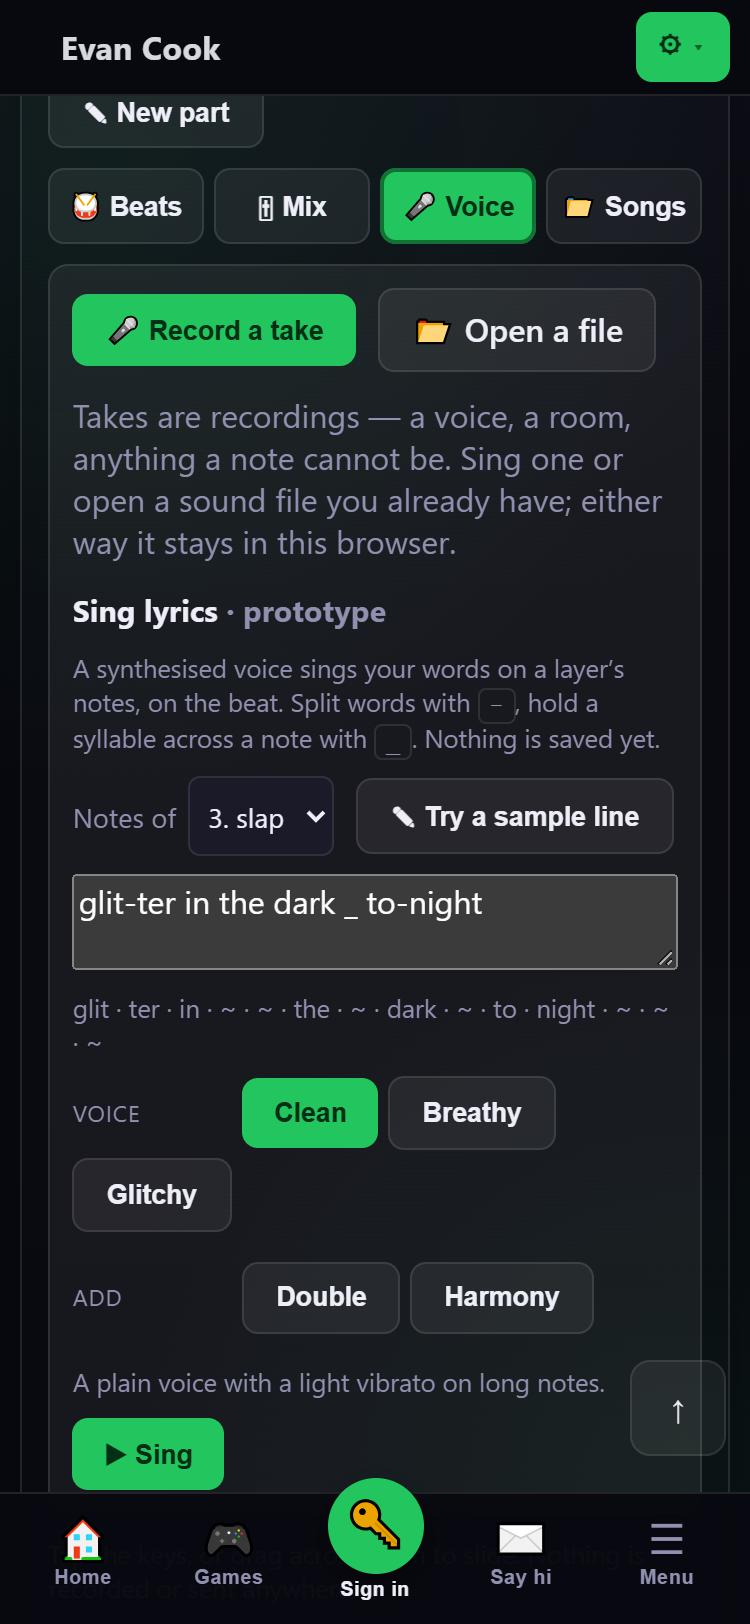
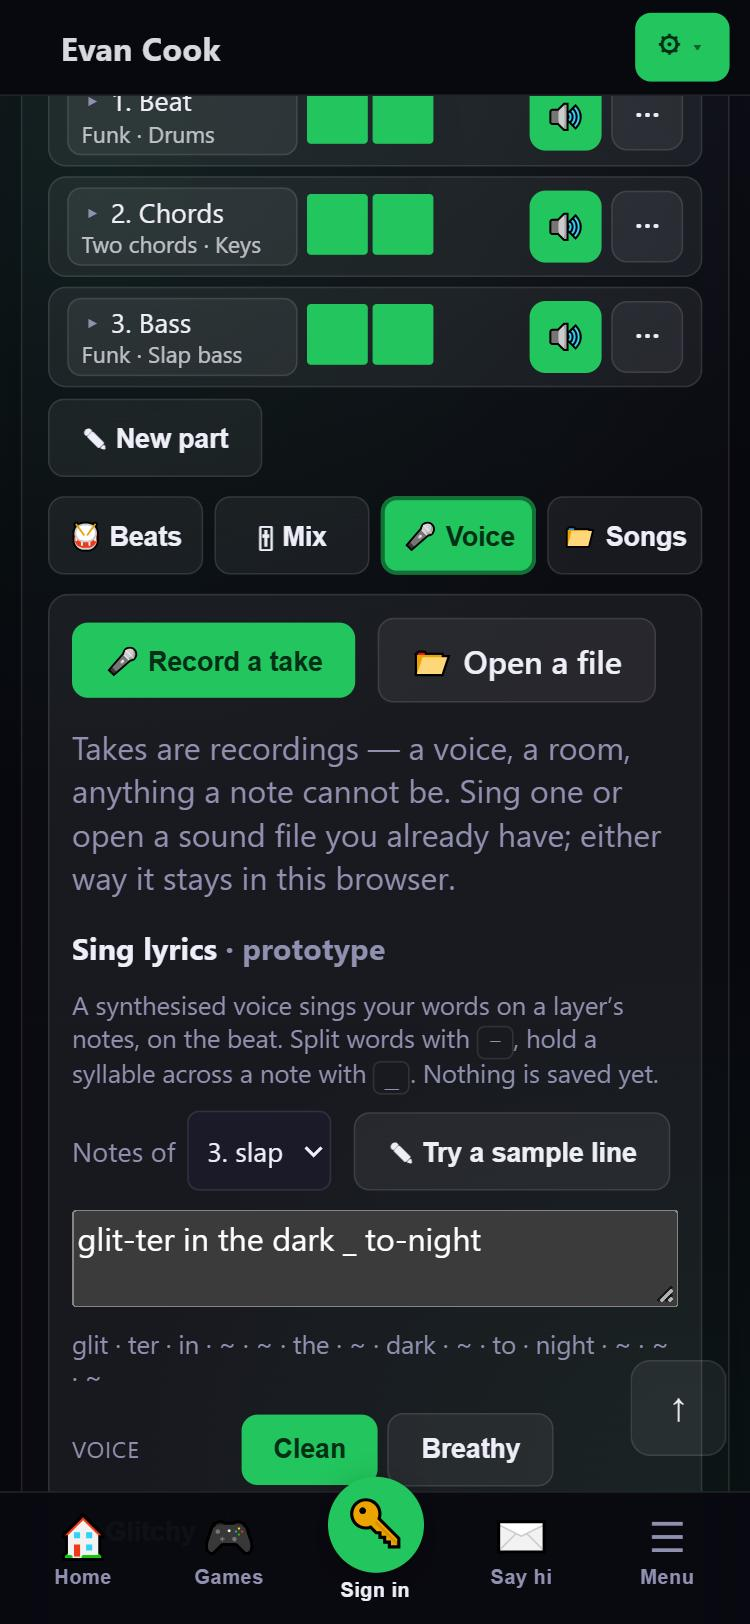
docs(instrument): the voice screens, retaken after the sing panel's new sound
Main brought in #338: the Sing panel now sings with the late vibrato
and the light room, and its Harmony is Off / Third / Third + octave.
This branch puts the Sing panel inside the Voice tool, so the Voice
screenshot was the one the merge made out of date.

- phone-voice.jpg is retaken at 375: the tool row with Voice open, the
  takes, and the start of Sing lyrics.
- phone-voice-sing.jpg is new: lower down, the Voice, Add and Harmony
  rows, with Off chosen, and Sing.

The other six screens show nothing the merge changed.

Checked on the merged head:
- All 4,768 tests pass.
- The Voice tool renders the new Harmony row from its inline Sing
  panel.
- The page loads with the same console as main. The one "Uncaught"
  there also appears on a build without this branch, after the
  Cloudflare beacon is refused on localhost, and not on the live site.

Changed region(s): [[0.0613, 0.0308, 0.92, 0.9852], [0.8587, 0.9236, 0.92, 0.9852], [0.8893, 0.0, 0.92, 0.0308]]

diff --git a/docs/2026-11-14-instrument-layout-built.md b/docs/2026-11-14-instrument-layout-built.md
@@ -109,6 +109,11 @@ is 800px wide because the pane scales a 1440 page down to fit.
 | -------------------------------------------------------------------------------------------------------------------------------------------------- | ---------------------------------------------------------------------------------------------------------------------------------------- | ------------------------------------------------------------------------------------------------------------------------------------------------------------------ |
 | <img src="2026-11-14-instrument-layout-built/phone-mix.jpg" width="220" alt="Mix open under the parts: your keys and each part's volume and mute"> | <img src="2026-11-14-instrument-layout-built/phone-voice.jpg" width="220" alt="Voice open: Record a take, Open a file, and Sing lyrics"> | <img src="2026-11-14-instrument-layout-built/phone-songs.jpg" width="220" alt="Songs open: Keep this song, Stems with three WAVs, one kept song, Clear all parts"> |
 
+**🎤 Voice, lower down** — retaken on 14 Nov 2026 after main brought in the Sing panel's new sound
+(#338): its Harmony row is now Off / Third / Third + octave, starting on Off.
+
+<img src="2026-11-14-instrument-layout-built/phone-voice-sing.jpg" width="220" alt="Voice, lower down: Voice, Add and the new Harmony row with Off chosen, then Sing">
+
 <img src="2026-11-14-instrument-layout-built/desktop.jpg" width="800" alt="Desktop at 1440: the play bar on one row, the song with each part's volume on its row, the four tools, and Visuals beside it">
 
 ## How it was checked
